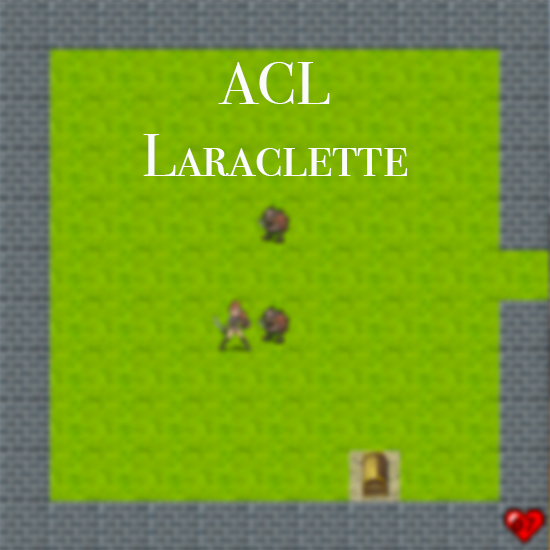
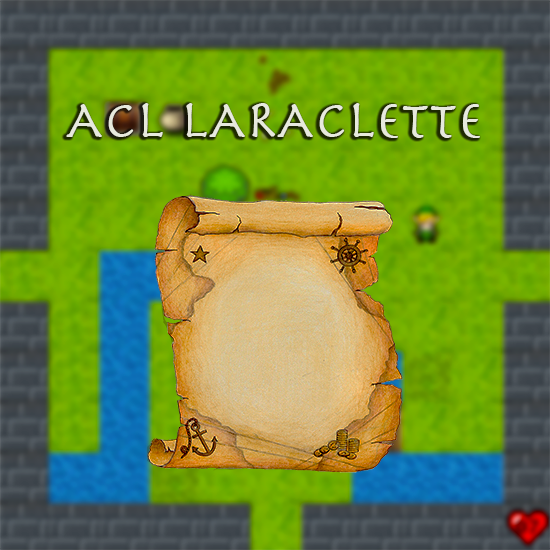
Modification stylistique du menu

diff --git a/src/game/Menu.java b/src/game/Menu.java
@@ -6,7 +6,7 @@ import java.awt.*;
 
 public class Menu {
 
-    private String[] menu = {"Play","Commands", "Left"};
+    private String[] menu = {"Play","Commands", "Exit"};
     private int indiceEnCours;
     private Game game;
     private boolean menuCmd;
@@ -56,14 +56,14 @@ public class Menu {
             if (i == indiceEnCours){
                 Composite c = AlphaComposite.getInstance(AlphaComposite.SRC_OVER, alpha);
                 crayon.setComposite(c);
-                crayon.setColor(Color.BLUE);
+                crayon.setColor(new Color(102, 51, 0));
 
             } else {
                 // restore le composite
                 crayon.setComposite(composite);
                 crayon.setColor(Color.WHITE);
             }
-            crayon.drawString(menu[i], Painter.WIN_WIDTH/2 - 50, Painter.WIN_HEIGHT/2 + i * 50);
+            crayon.drawString(menu[i], Painter.WIN_WIDTH/2 - 40, Painter.WIN_HEIGHT/2 + 10+ i * 60);
         }
 
     }
@@ -73,12 +73,14 @@ public class Menu {
 
 
     public void printCommandes(Graphics2D crayon){
-        String[] cmd = {"LEFT: q | RIGHT: d | UP: z | DOWN: s", "ACTION: e | ATTACK: spacebar", "Return with ESC"};
+        //String[] cmd = {"LEFT: q | RIGHT: d | UP: z | DOWN: s", "ACTION: e | ATTACK: spacebar", "Return with ESC"};
+        String[] cmd = {"LEFT: q",  "RIGHT: d", "UP: z", "DOWN: s", "ACTION: e", "ATTACK: spacebar", "RETURN : esc"};
         crayon.drawImage(TileFactory.instance().getMenuTile(), 0, 0, null);
-        crayon.setFont(new Font(" Serif ",Font.PLAIN,20));
+        crayon.setFont(new Font(" Serif ",Font.BOLD,16));
+        crayon.setColor(new Color(102, 51, 0));
 
         for (int i = 0; i < cmd.length; i++){
-            crayon.drawString(cmd[i], Painter.WIN_WIDTH/3 - 70, Painter.WIN_HEIGHT/2 + i * 30);
+            crayon.drawString(cmd[i], Painter.WIN_WIDTH/3 + 40, Painter.WIN_HEIGHT/2 + i * 20);
         }
     }
 
